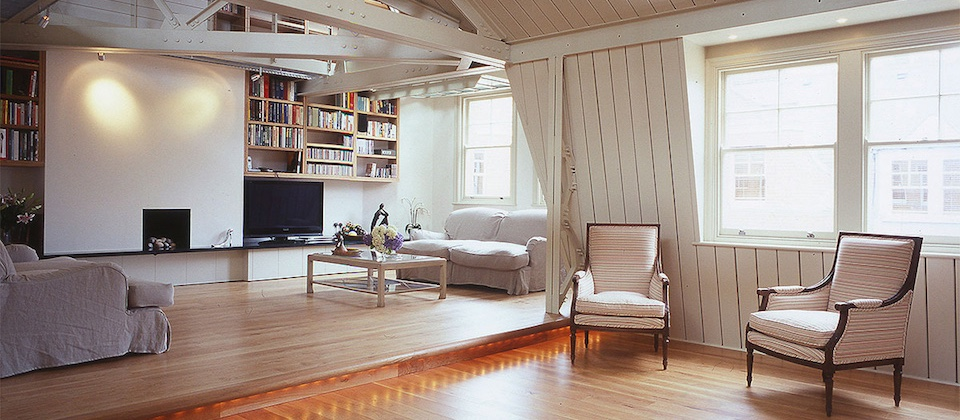
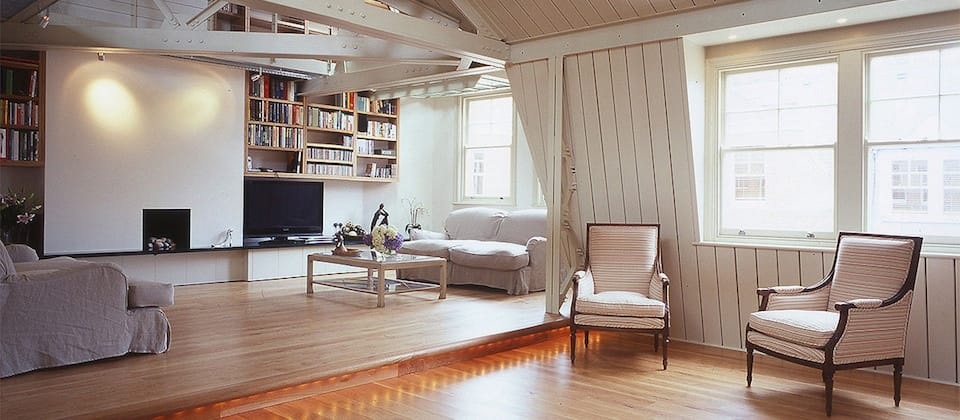
make intro slider retina ready

Changed region(s): [[0.3438, 0.4952, 0.4062, 0.5881], [0.3438, 0.2476, 0.375, 0.2786], [0.25, 0.2167, 0.2812, 0.2476]]

diff --git a/site/templates/home.php b/site/templates/home.php
@@ -1,8 +1,8 @@
 <?php snippet('header') ?>
      <!-- slider section / main content -->
     <div id="slider">
-      <img src="<?php echo url('assets/images/home-slider/01.jpg') ?>" width="960" height="420">
-      <img src="<?php echo url('assets/images/home-slider/02.jpg') ?>" width="960" height="420">
-      <img src="<?php echo url('assets/images/home-slider/03.jpg') ?>" width="960" height="420">
+      <img data-src="<?php echo url('assets/images/home-slider/01.jpg') ?>" data-src-2x="<?php echo url('assets/images/home-slider/01@2.jpg') ?>" width="960" height="420">
+      <img data-src="<?php echo url('assets/images/home-slider/02.jpg') ?>" data-src-2x="<?php echo url('assets/images/home-slider/02@2.jpg') ?>" width="960" height="420">
+      <img data-src="<?php echo url('assets/images/home-slider/03.jpg') ?>" data-src-2x="<?php echo url('assets/images/home-slider/03@2.jpg') ?>" width="960" height="420">
     </div>
 <?php snippet('footer') ?>

diff --git a/site/templates/project.php b/site/templates/project.php
@@ -8,7 +8,6 @@
     </div>
     <div class="project-info">
       <p><?php echo kirbytextSans($page->info()) ?></p>
-      <img src="http://placehold.it/200x360">
     </div>
 </div>
 <?php snippet('footerProject'); ?>
